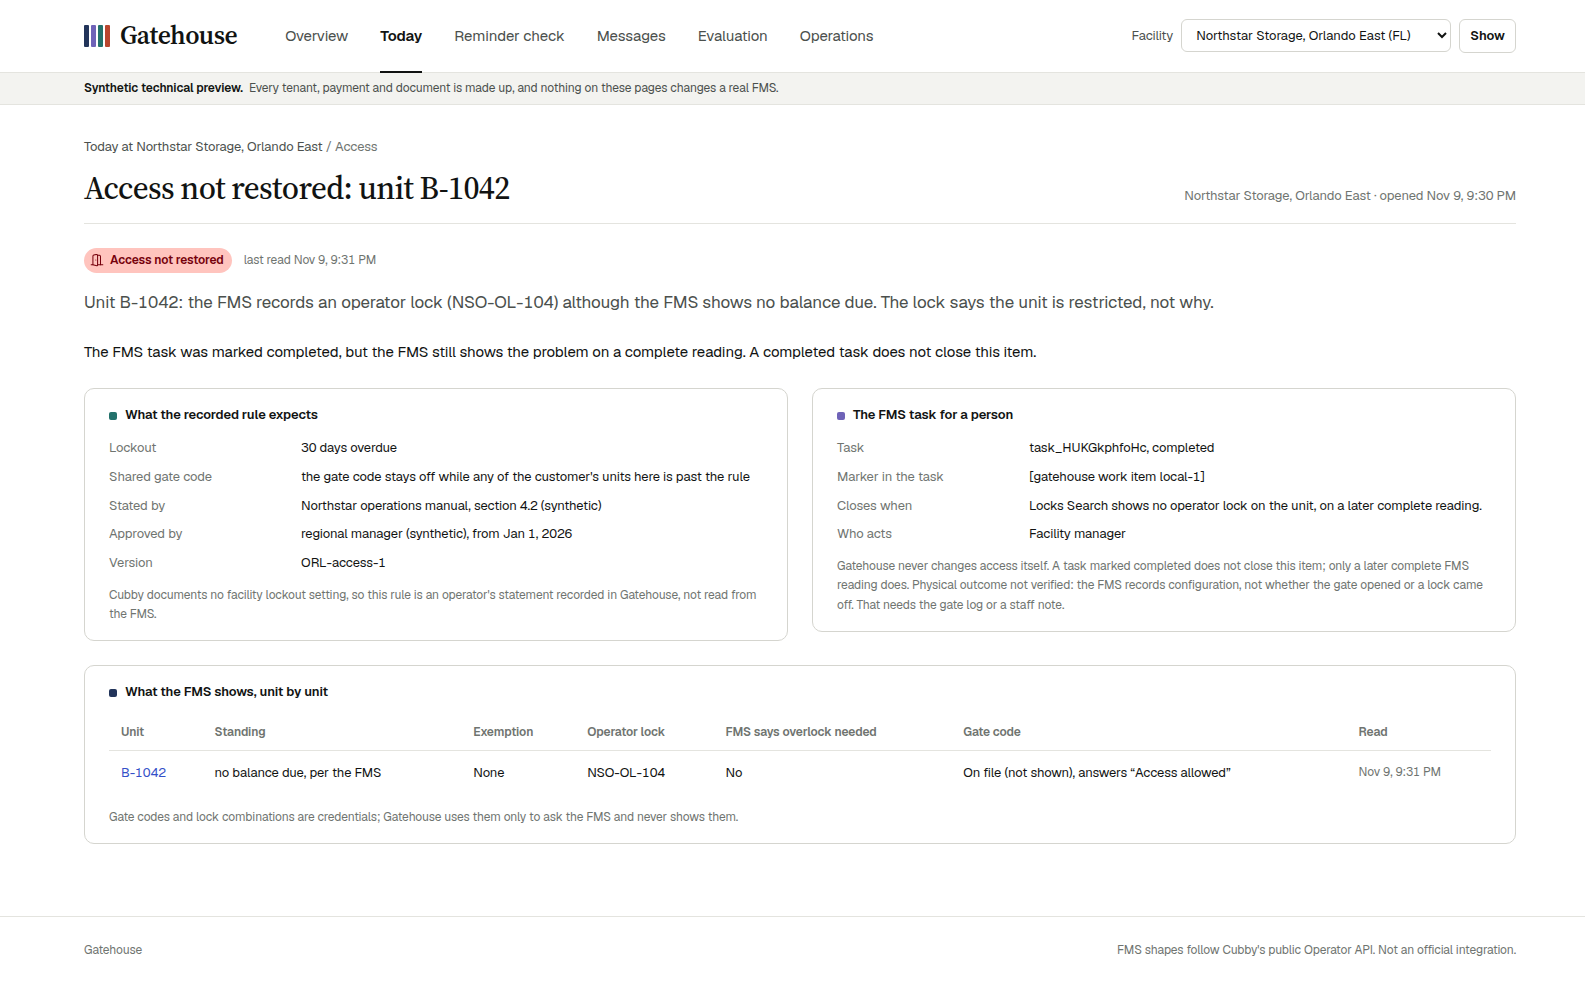
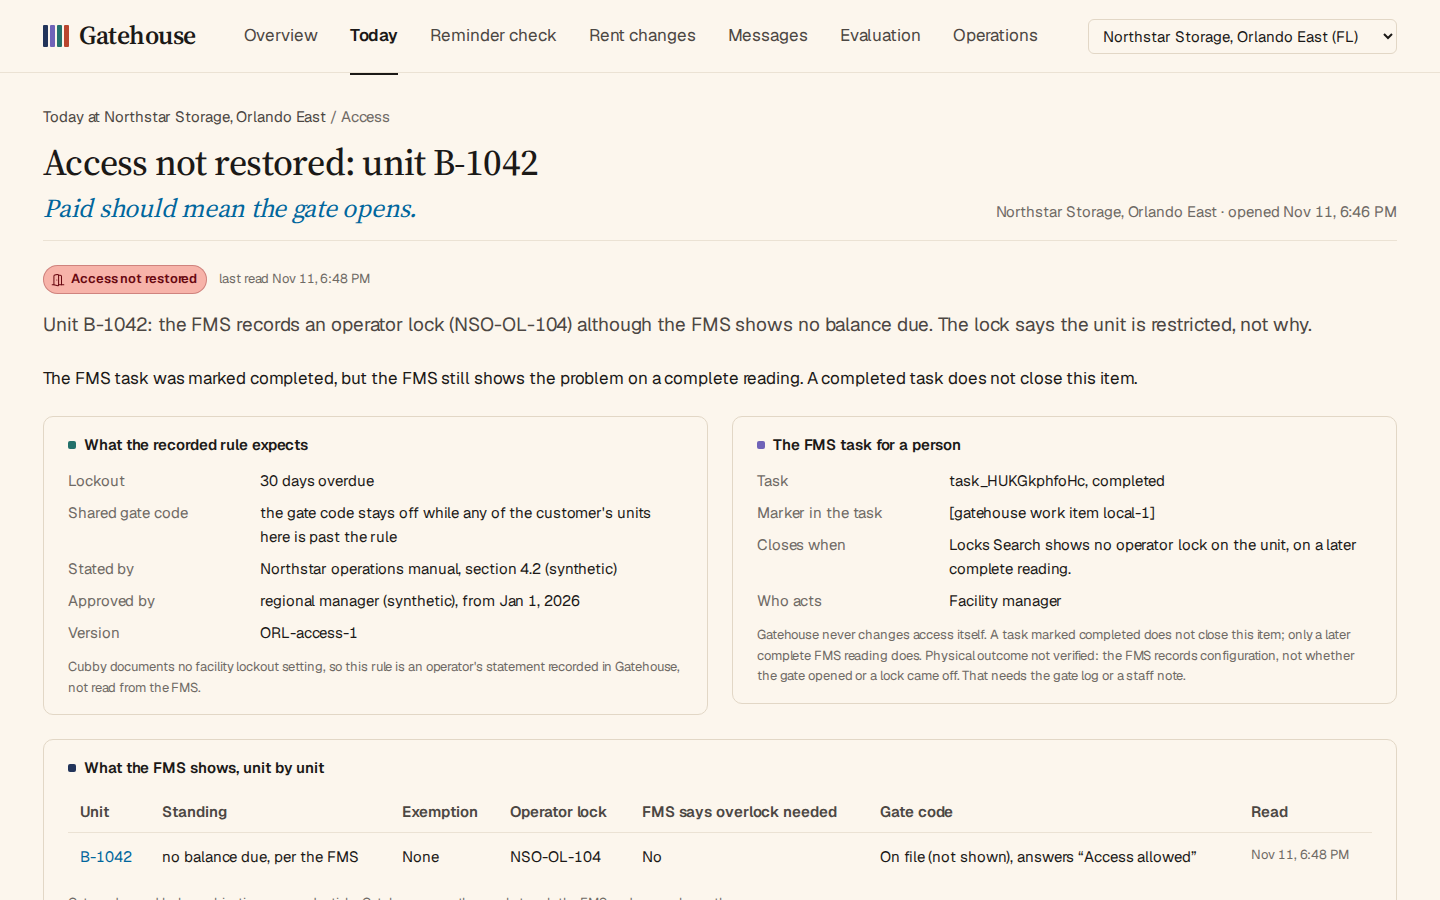
Show the new look in the README screenshots
All eight screenshots are taken again from the live link at 1440 wide,
so the README matches what the footer's link leads back to: the cream
pages, the taglines and the guard on the Overview.

diff --git a/README.md b/README.md
@@ -39,7 +39,7 @@ Sources:
 
 | | |
 |---|---|
-| ![The overview, opening on the film](docs/screens/overview.png) **Overview.** What Gatehouse is, with the film and each built part. | ![Today's worklist](docs/screens/today.png) **Today.** Every open item at a facility, worst first, with what proves it done. |
+| ![The overview, with the guard and the film](docs/screens/overview.png) **Overview.** What Gatehouse is, with the film, live cards from the desk's own records, and the guard that keeps watch. | ![Today's worklist](docs/screens/today.png) **Today.** Every open item at a facility, worst first, with what proves it done. |
 | ![A held payment](docs/screens/payment.png) **A held payment.** What the tenant agreed to, what was sent and heard back, and what the FMS shows now. | ![The account record](docs/screens/record.png) **The record.** Four lanes: what the FMS said, what Gatehouse observed and concluded, and what a person decided. |
 | ![A Florida lien file](docs/screens/lien.png) **A lien file.** Every requirement with its basis and evidence, and what changed since the last evaluation. | ![An access item](docs/screens/access.png) **An access item.** The recorded rule, the FMS task, and what the FMS shows unit by unit. |
 | ![Messages, with our agent's case notes](docs/screens/messages.png) **Messages.** A tenant's text and the receipt they sent, the steps it went through, what the receipt says beside what the FMS shows, and the case notes our agent wrote. | ![The reminder check](docs/screens/reminder-check.png) **Reminder check.** Which past-due tenants a collections text should not go to, and why, including what a tenant's own text asks for. |
